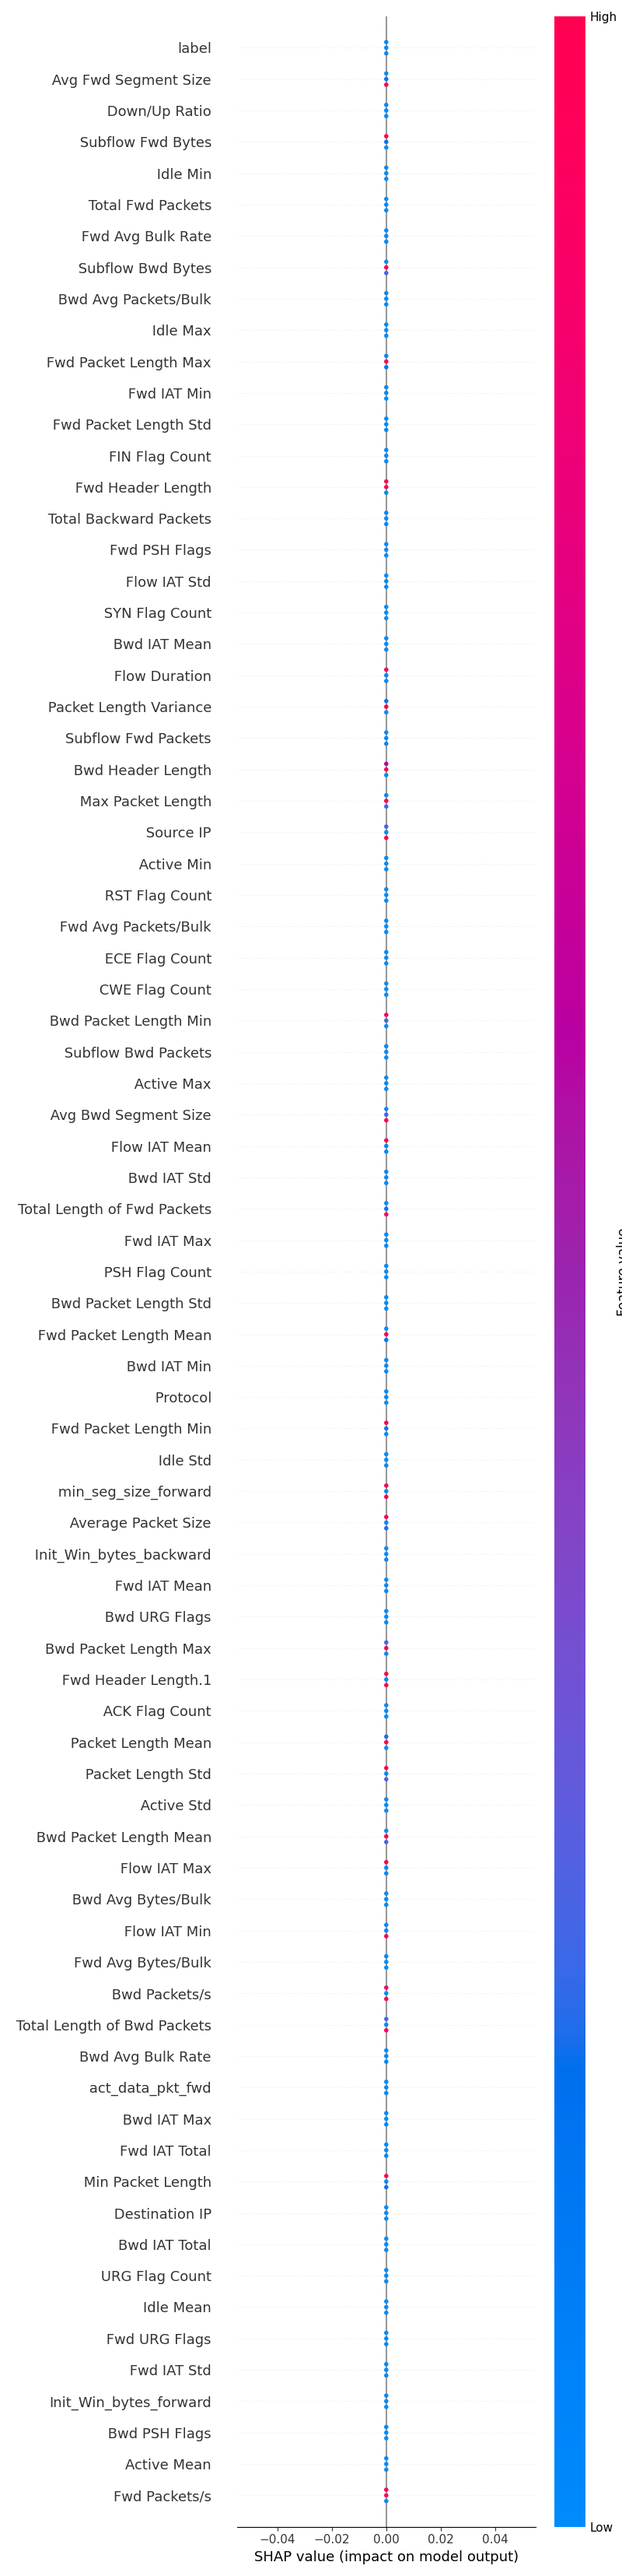
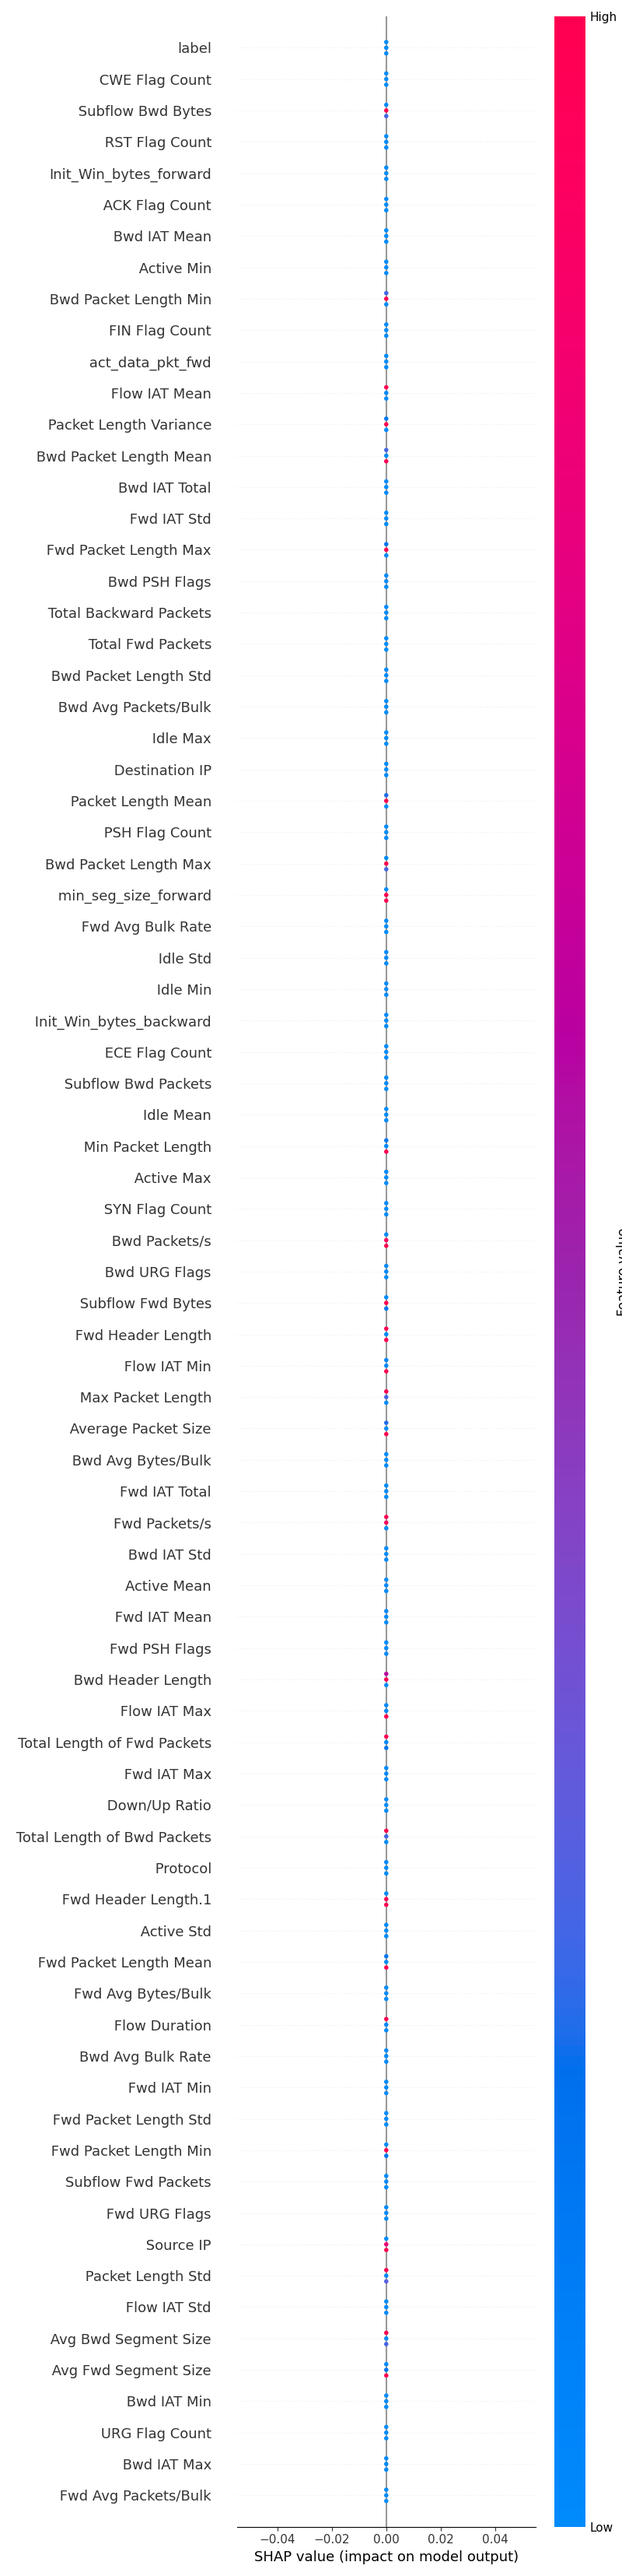
SHAP + GNNExplainer

Changed region(s): [[0.0625, 0.0311, 0.3438, 0.7779], [0.0938, 0.8091, 0.3438, 0.9647]]

diff --git a/src/GNN_Model1/XP_CICIDS2017/XAI/Pre_includedInModel.py b/src/GNN_Model1/XP_CICIDS2017/XAI/Pre_includedInModel.py
@@ -30,7 +30,7 @@ import matplotlib.pyplot as plt
 
 #constante
 size_embedding = 152
-nb_batch = 1
+nb_batch = 5
 # to print
 pr = True
 filename = './models/M1_weights.txt'
@@ -256,7 +256,7 @@ opt = th.optim.Adam(model1.parameters())
 path, dirs, files = next(os.walk("./input/Dataset/GlobalDataset/Splitted/"))
 file_count = len(files)
 
-for nb_files in range(1):
+for nb_files in range(file_count):
     data1 = pd.read_csv(f'{path}{files[nb_files]}', encoding="ISO-8859–1", dtype = str)
 
     print(f'{files[nb_files]} ++++++++++++++++++++++++++++++++++++++++++++++')
@@ -332,7 +332,7 @@ for nb_files in range(1):
         # y1_train_batched = y1_train.iloc[a:b]
         y1_train_batched = X1_train_batched['label']
 
-        pred1, edge_label1 = model1.train(X1_train_batched, 1)
+        pred1, edge_label1 = model1.train(X1_train_batched, 1000)
 
         print('Train metrics :')
         print("Accuracy : ", sklearn.metrics.accuracy_score(edge_label1, pred1))
@@ -367,8 +367,8 @@ for nb_files in range(1):
 
 
 
-X1_test = X1_test.iloc[4:7]
-X1_train_batched = X1_train_batched.iloc[4:7]
+# X1_test = X1_test.iloc[4:7]
+# X1_train_batched = X1_train_batched.iloc[4:7]
 
 print(X1_test)
 print(list(set(list(X1_test.columns))))
@@ -440,4 +440,4 @@ shap_values = explainer(X1_test)
 # visualize the first prediction's explanation
 # shap.plots.waterfall(shap_values[0], show = False)
 shap.summary_plot(shap_values, X1_test, show = False, max_display=X1_test.shape[1])
-plt.savefig('./notes/SHAP/grafic.png')
+plt.savefig('./notes/SHAP/grafic1.png')

diff --git a/src/GNN_Model1/XP_CICIDS2017/Bin_Batches.py b/src/GNN_Model1/XP_CICIDS2017/Bin_Batches.py
@@ -337,6 +337,10 @@ for nb_files in range(file_count):
     print("nb Test instances : ", len(X1_test.values))
     X1_test = encoder1.transform(X1_test)
     X1_test[cols_to_norm1] = scaler1.transform(X1_test[cols_to_norm1])
+
+    # Save X1_test for XAI
+    X1_test.to_csv(f'./input/Dataset/XAI/X_test{nb_files}.csv', sep=',', index = False)
+
     X1_test['h'] = X1_test[ cols_to_norm1 ].values.tolist()
 
     # !!!!!!!!!!!!!!!!!!!!!!!!!!!!!!!!!!!!!!!!!!!!!!!!!!!!!!!!!!!!!!!!!!!!!!!!!!!!!!!!!!!!!!!!!!!!!!!!!!!!!!!!!!!!!!!!!!!!!!!!!
@@ -385,4 +389,4 @@ for nb_files in range(file_count):
 # save_graphs("./notes/DGLGraphs/data.bin", [G1_test], actual1)
 
 # Save the model
-th.save(model1.state_dict(), "./models/Final_Model/model1.pt")
+th.save(model1.state_dict(), "./models/Final_Model/modelF.pt")
